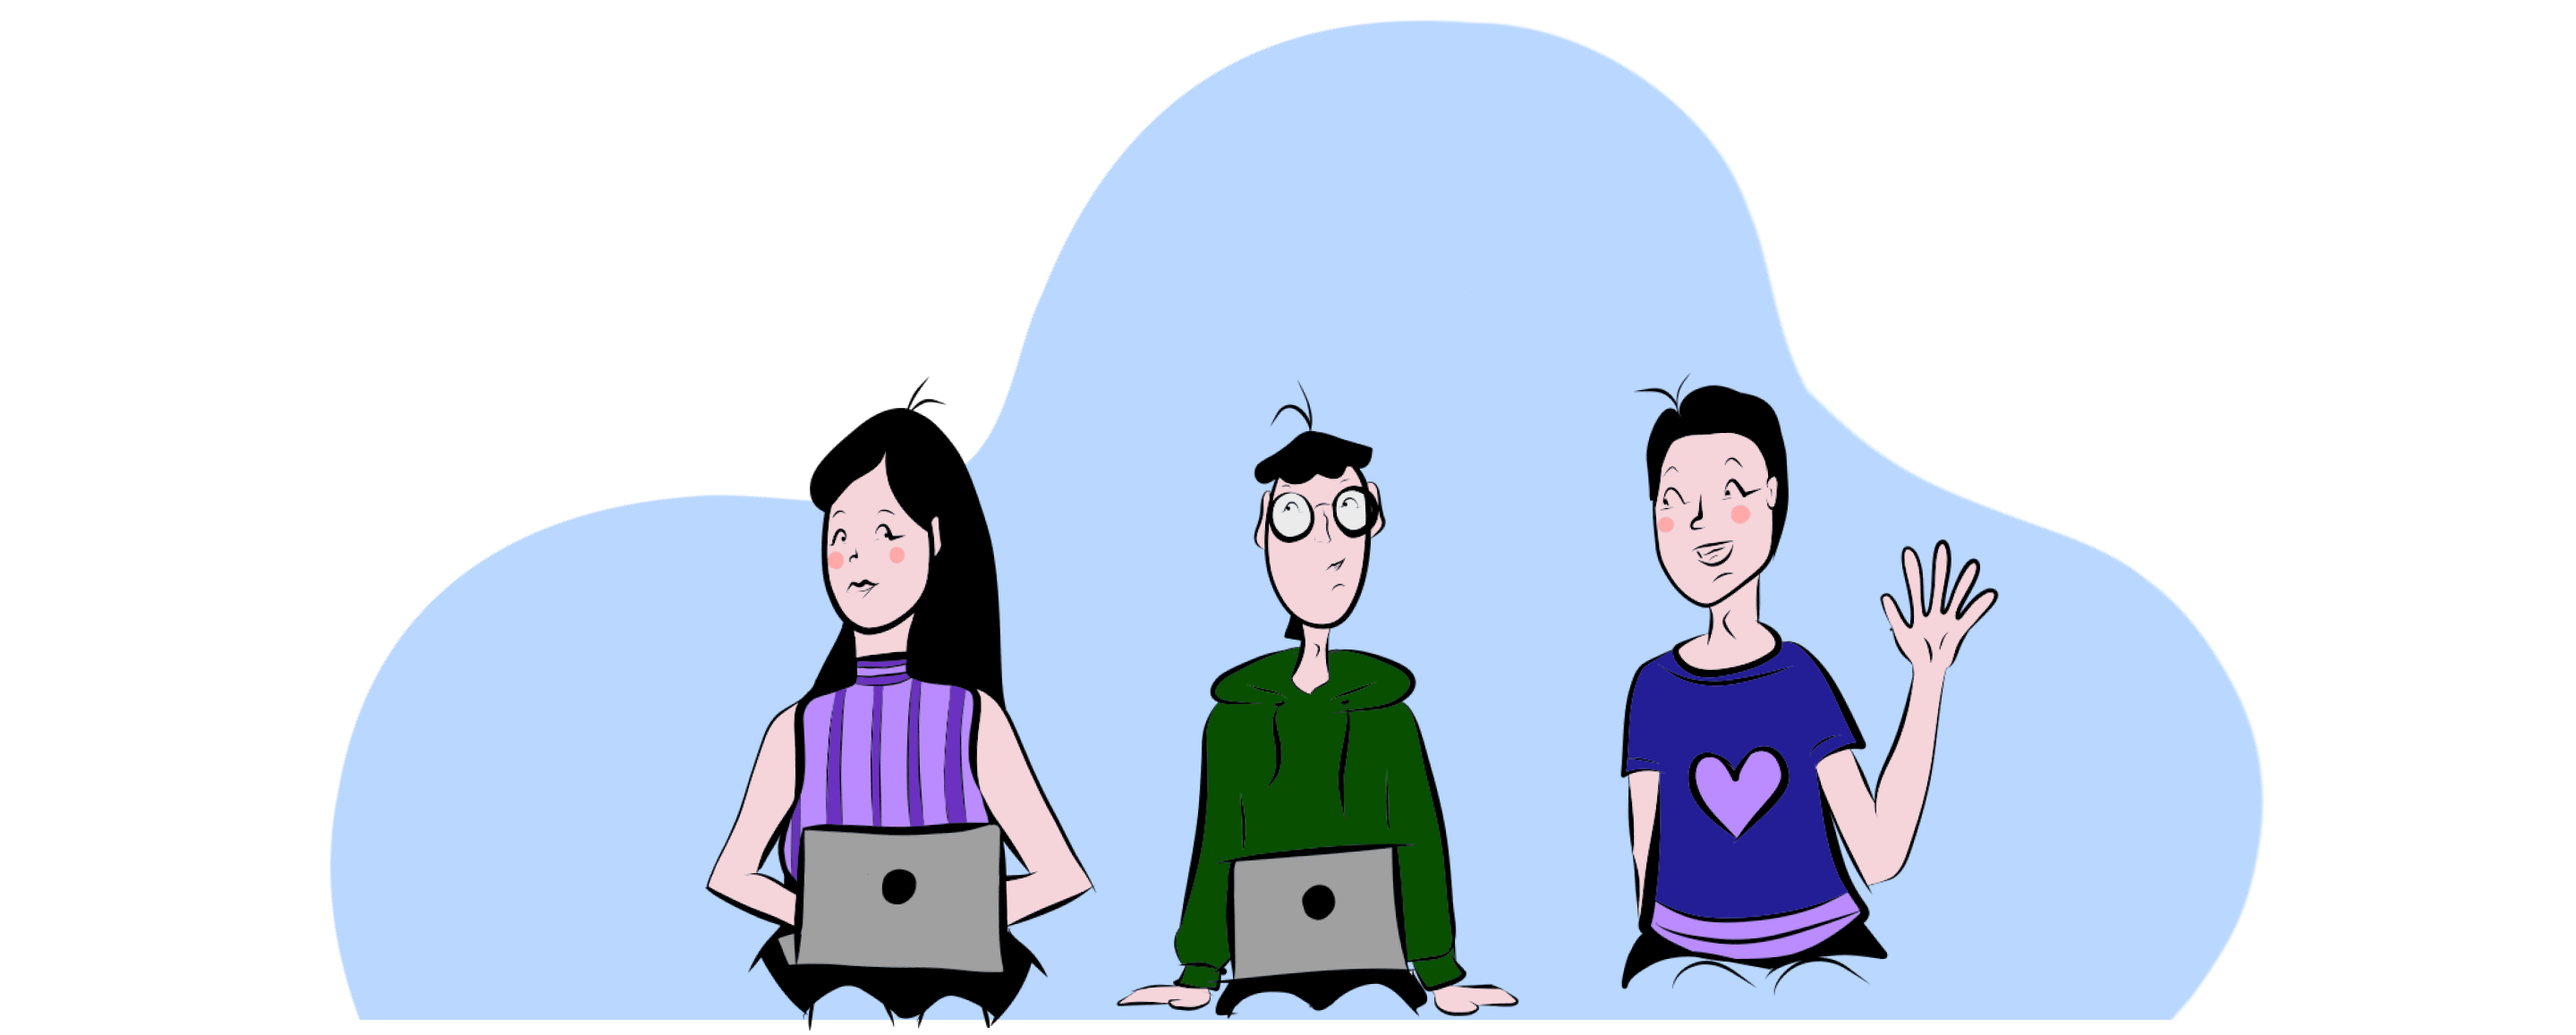
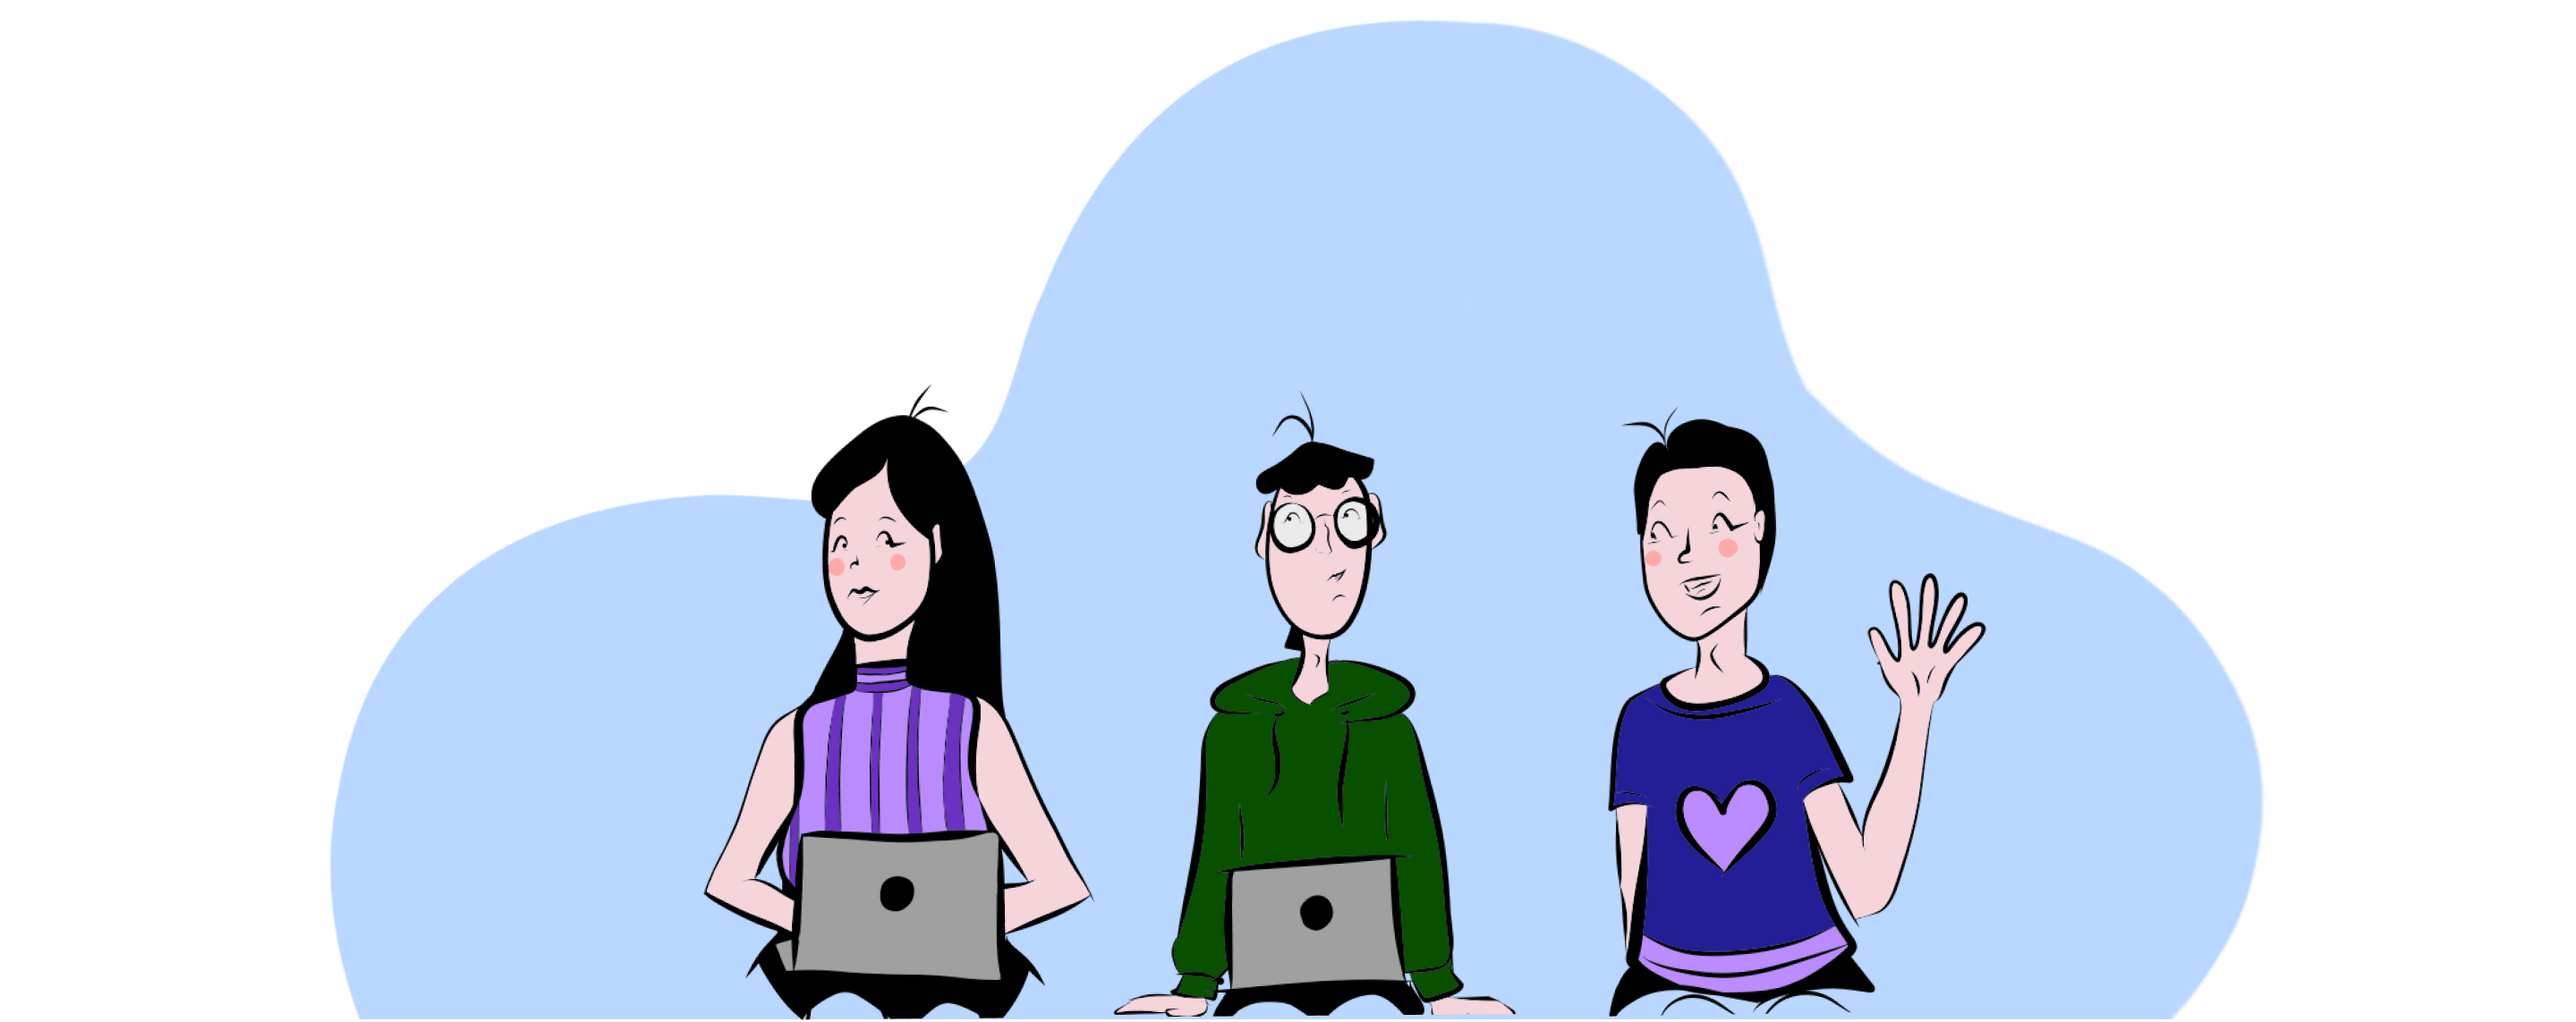
[frontend] fix: illustrations

diff --git a/polynote-frontend/pages/index.tsx b/polynote-frontend/pages/index.tsx
@@ -12,6 +12,7 @@ import { useRouter } from "next/router";
 import { Paths } from "consts/paths";
 import { useTheme } from "recoil/theme/ThemeStoreHooks";
 import FeaturesIllustration from "assets/features-illustration.png";
+import FeaturesIllustrationLight from "assets/features-illustration-light.png";
 import { BsFillShareFill, BsGithub, BsTwitter } from "react-icons/bs";
 import Polybase from "assets/partners/polybase.png";
 import Scroll from "assets/partners/scroll.png";
@@ -59,7 +60,7 @@ const Home: NextPage = () => {
       if (diff > 0) {
         imageRef.current.style.transform = `translateX(-${diff / 1.15}px)`;
       } else {
-        imageRef.current.style.transform = "translateX(0px)";
+        imageRef.current.style.transform = "translateX(100px)";
       }
     };
 
@@ -84,7 +85,7 @@ const Home: NextPage = () => {
           <h4 className="text-center text-[16px] md:text-[20px] mt-[20px] md:mt-[24px] max-w-[800px] rubik text-MAIN_DARK dark:text-white">
             Polynote uses power of Polybase and encryption to create truly
             decentralized note-taking application environment, combined with
-            Push Protocol and Scroll L2
+            Push Protocol, Scroll L2, and Filecoin Virtual Machine
           </h4>
           <Button
             onClick={() => router.push(Paths.CONNECT_WALLET)}
@@ -115,7 +116,11 @@ const Home: NextPage = () => {
           <Image
             alt="Features"
             className="max-w-[200px] md:max-w-[300px] ml-auto mr-auto flex hover:animate-pulse mt-[48px]"
-            src={FeaturesIllustration}
+            src={
+              theme === "dark"
+                ? FeaturesIllustrationLight
+                : FeaturesIllustration
+            }
           />
           <h2 className="text-center mt-[40px] text-[24px] md:text-[48px] font-[600] rubik text-MAIN_DARK dark:text-white rubik">
             Main Features
